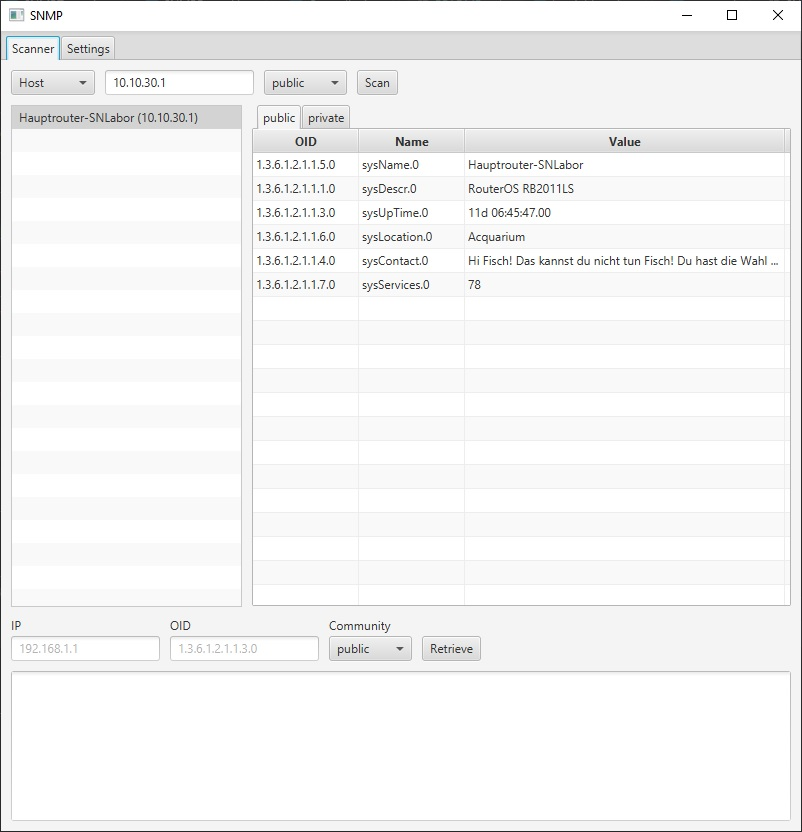
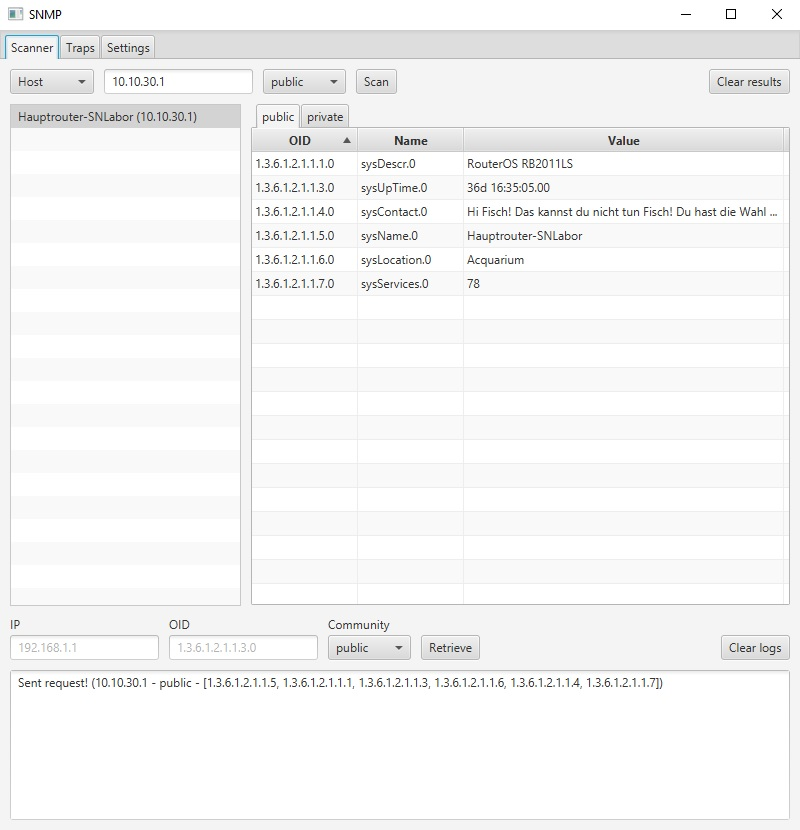
Update README.md, prepare for release version 1.0

diff --git a/README.md b/README.md
@@ -7,39 +7,50 @@ The first line of the output should look similar to this: ```java version "1.8.0
 Alternatively, you can build the project yourself, you will need to have JDK 1.8.0 installed though. For additional 
 instructions refer to the section [Build the project yourself](#build-the-project-yourself).
 
-## User Interface
-A picture of the main UI after a single request to the IP-Address 10.10.30.1:
-![Picture of main UI](pictures/scanner.jpg)
-
-A picture of the settings-tab where initially polled OIDs, communities and used MIB-modules can be modified.
-![Picture of settings-tab](pictures/settings.jpg)
-
-## Project Status
-This project is still a work-in-progress.
-### What already works
-* Scan single IP-Addresses for six different OIDs in two Communities out of the box.
-* Scan not only using OIDs, but also MIB names.
-* Support for two MIB-modules.
-* View OID, name and value of every previously performed request on every IP-Address in a nicely formatted table.
-* Be informed of timed-out requests, complete with additional information on which request timed out.
-* Ability to customize which OIDs to poll.
-* Ability to customize which communities to use.
-* Ability to customize which MIB-modules to use.
-
-### What is still to come
-* Poll entire subnets at once, specified with a mask.
-* Poll entire ranges at once, specified by a start- and an end-Address.
-* Flexibly poll a single OID on a single IP-Address using a single community.
-* Receive Traps and Informs
-
 ## Build the project yourself
 To build the Scanner on your own, import the project into your favourite IDE.
 For this example, I will use IntelliJ IDEA (Community Version). The Community Version can be downloaded for free from [here](https://www.jetbrains.com/idea/download).
 1. Open IntelliJ IDEA.
 2. Navigate to File > New > Project from Version Control... > Git  
-Here enter the following link: https://github.com/Maximilian-Mitterrutzner/SNMP.git and confirm with "Clone".
-3. Now Right-Click on the Projekt Name and navigate to "Add Frameworks Support..." and select the checkBox with Maven. Confirm with OK.
+   Here enter the following link: https://github.com/Maximilian-Mitterrutzner/SNMP.git and confirm with "Clone".
+3. Now Right-Click on the project Name and navigate to "Add Frameworks Support..." and select the checkBox with Maven. Confirm with OK.
 4. Under Project Structure > Project Settings > Project > Project SDK select "1.8.0_181" and set the project language level to "SDK default".
 5. In the last step go to Add Configuration... > + > Application and select "com.mitmax.Main" as the Main class.  
-Optionally you can set the name to Main too. Confirm with OK.
+   Optionally you can set the name to Main too. Confirm with OK.
 6. That's it. Now just press on the green Play button, and the application should start.
+
+## User Interface
+The main UI looks like this after performing a single request to the IP-Address 10.10.30.1:
+![Picture of main UI](pictures/scanner.jpg)
+
+Not only can you poll single Hosts, but also entire subnets, specified by a mask:
+![Picture of subnet controls](pictures/subnet.jpg)
+
+Still not specific enough? How about an address range?
+![Picture of range controls](pictures/range.jpg)
+
+You can also receive and view both informs and traps, this is what it looks like after receiving one:
+![Picture of trap/inform UI](pictures/traps.jpg)
+
+This is the settings-tab, where timeout, log-level, initially polled OIDs, communities and used MIB-modules can be modified.
+![Picture of settings-tab](pictures/settings.jpg)
+
+## Functionality
+* Scan single IP-addresses, subnets and address-ranges with an array of six different OIDs out of the box.
+* Poll individual IP-addresses with individual OIDs.
+* Scan not only using OIDs, but also MIB names.
+* Two MIB-modules are loaded by default, with the ability to load as many others as you want.
+* View OID, name and value of every previously performed request on every IP-Address in a nicely formatted table.
+* Display the hostname of hosts without having to search it in the results.
+* Be informed of timed-out requests, complete with additional information on which request timed out.
+* Receive and view both traps and informs.
+* Settings are saved and reloaded automatically.
+* Customize a wide variety of things:
+  * Timeouts for requests.
+  * Log-level. 
+  * Which OIDs to poll.
+  * Which communities to use.
+  * Which MIB-modules to use.
+
+## Project Status
+This project is pretty much finished. At best there might be a few bug-fixes and maybe a feature or two if someone were to request them, but that's all.
